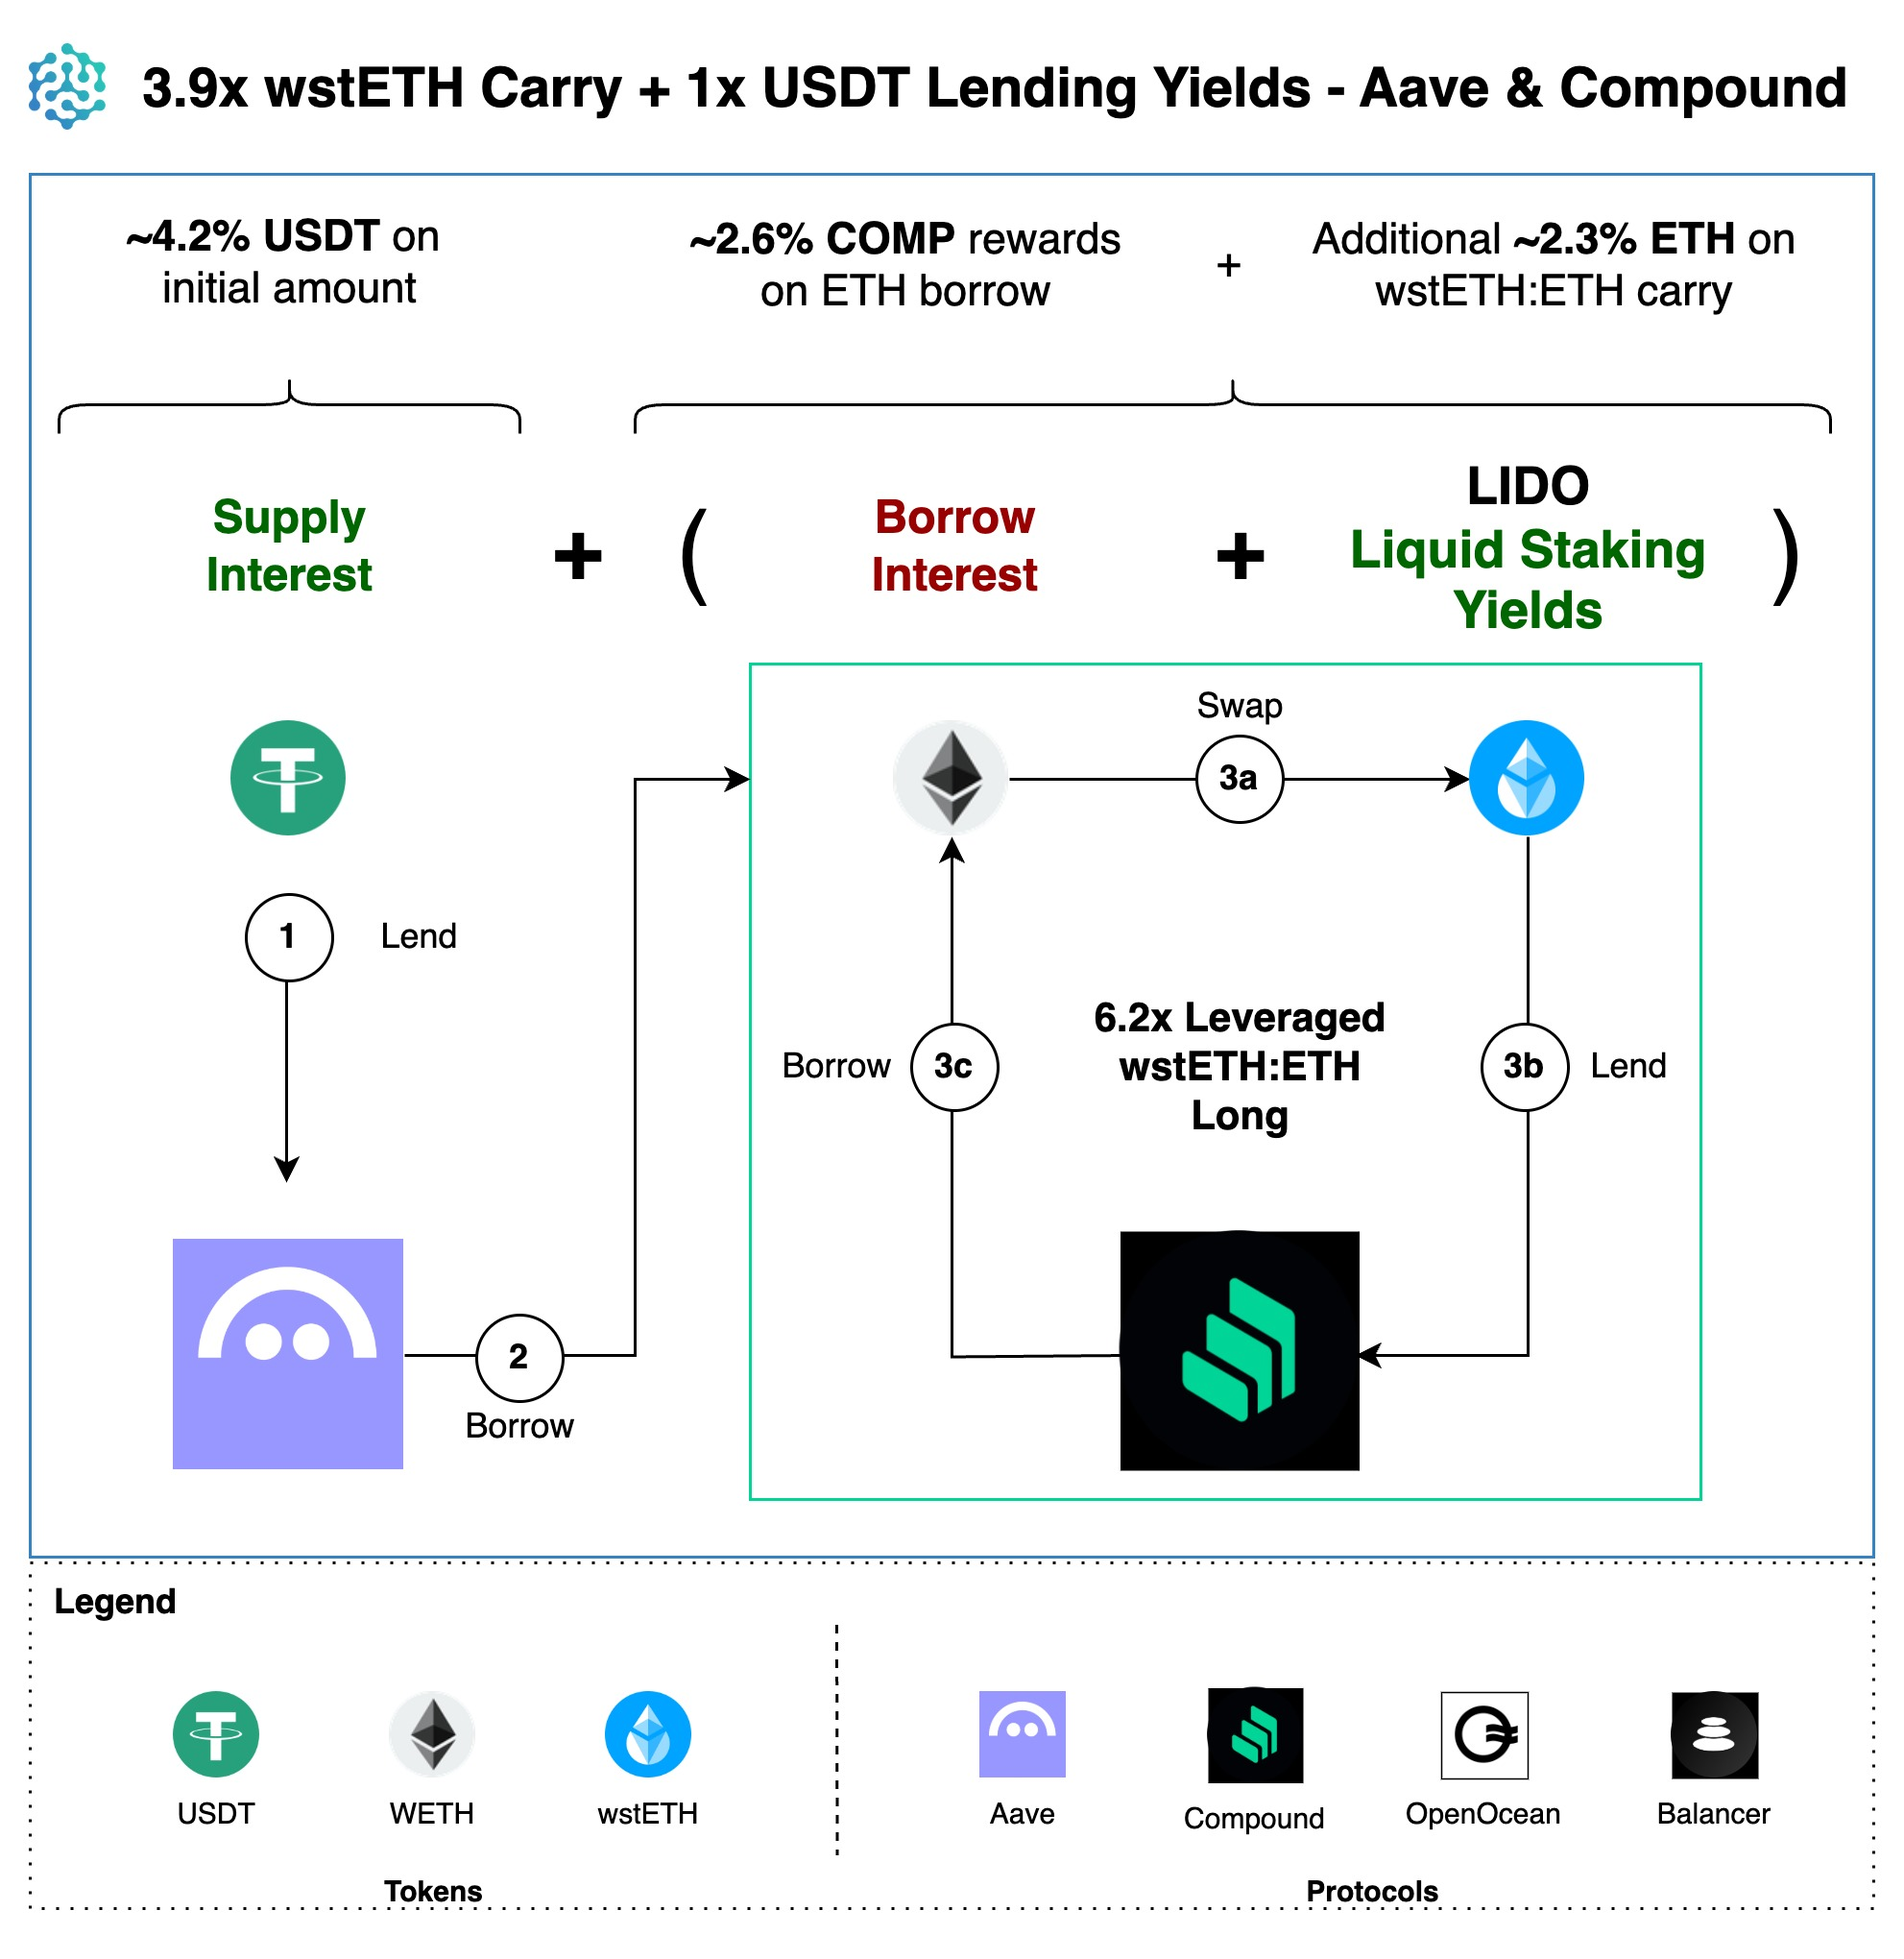
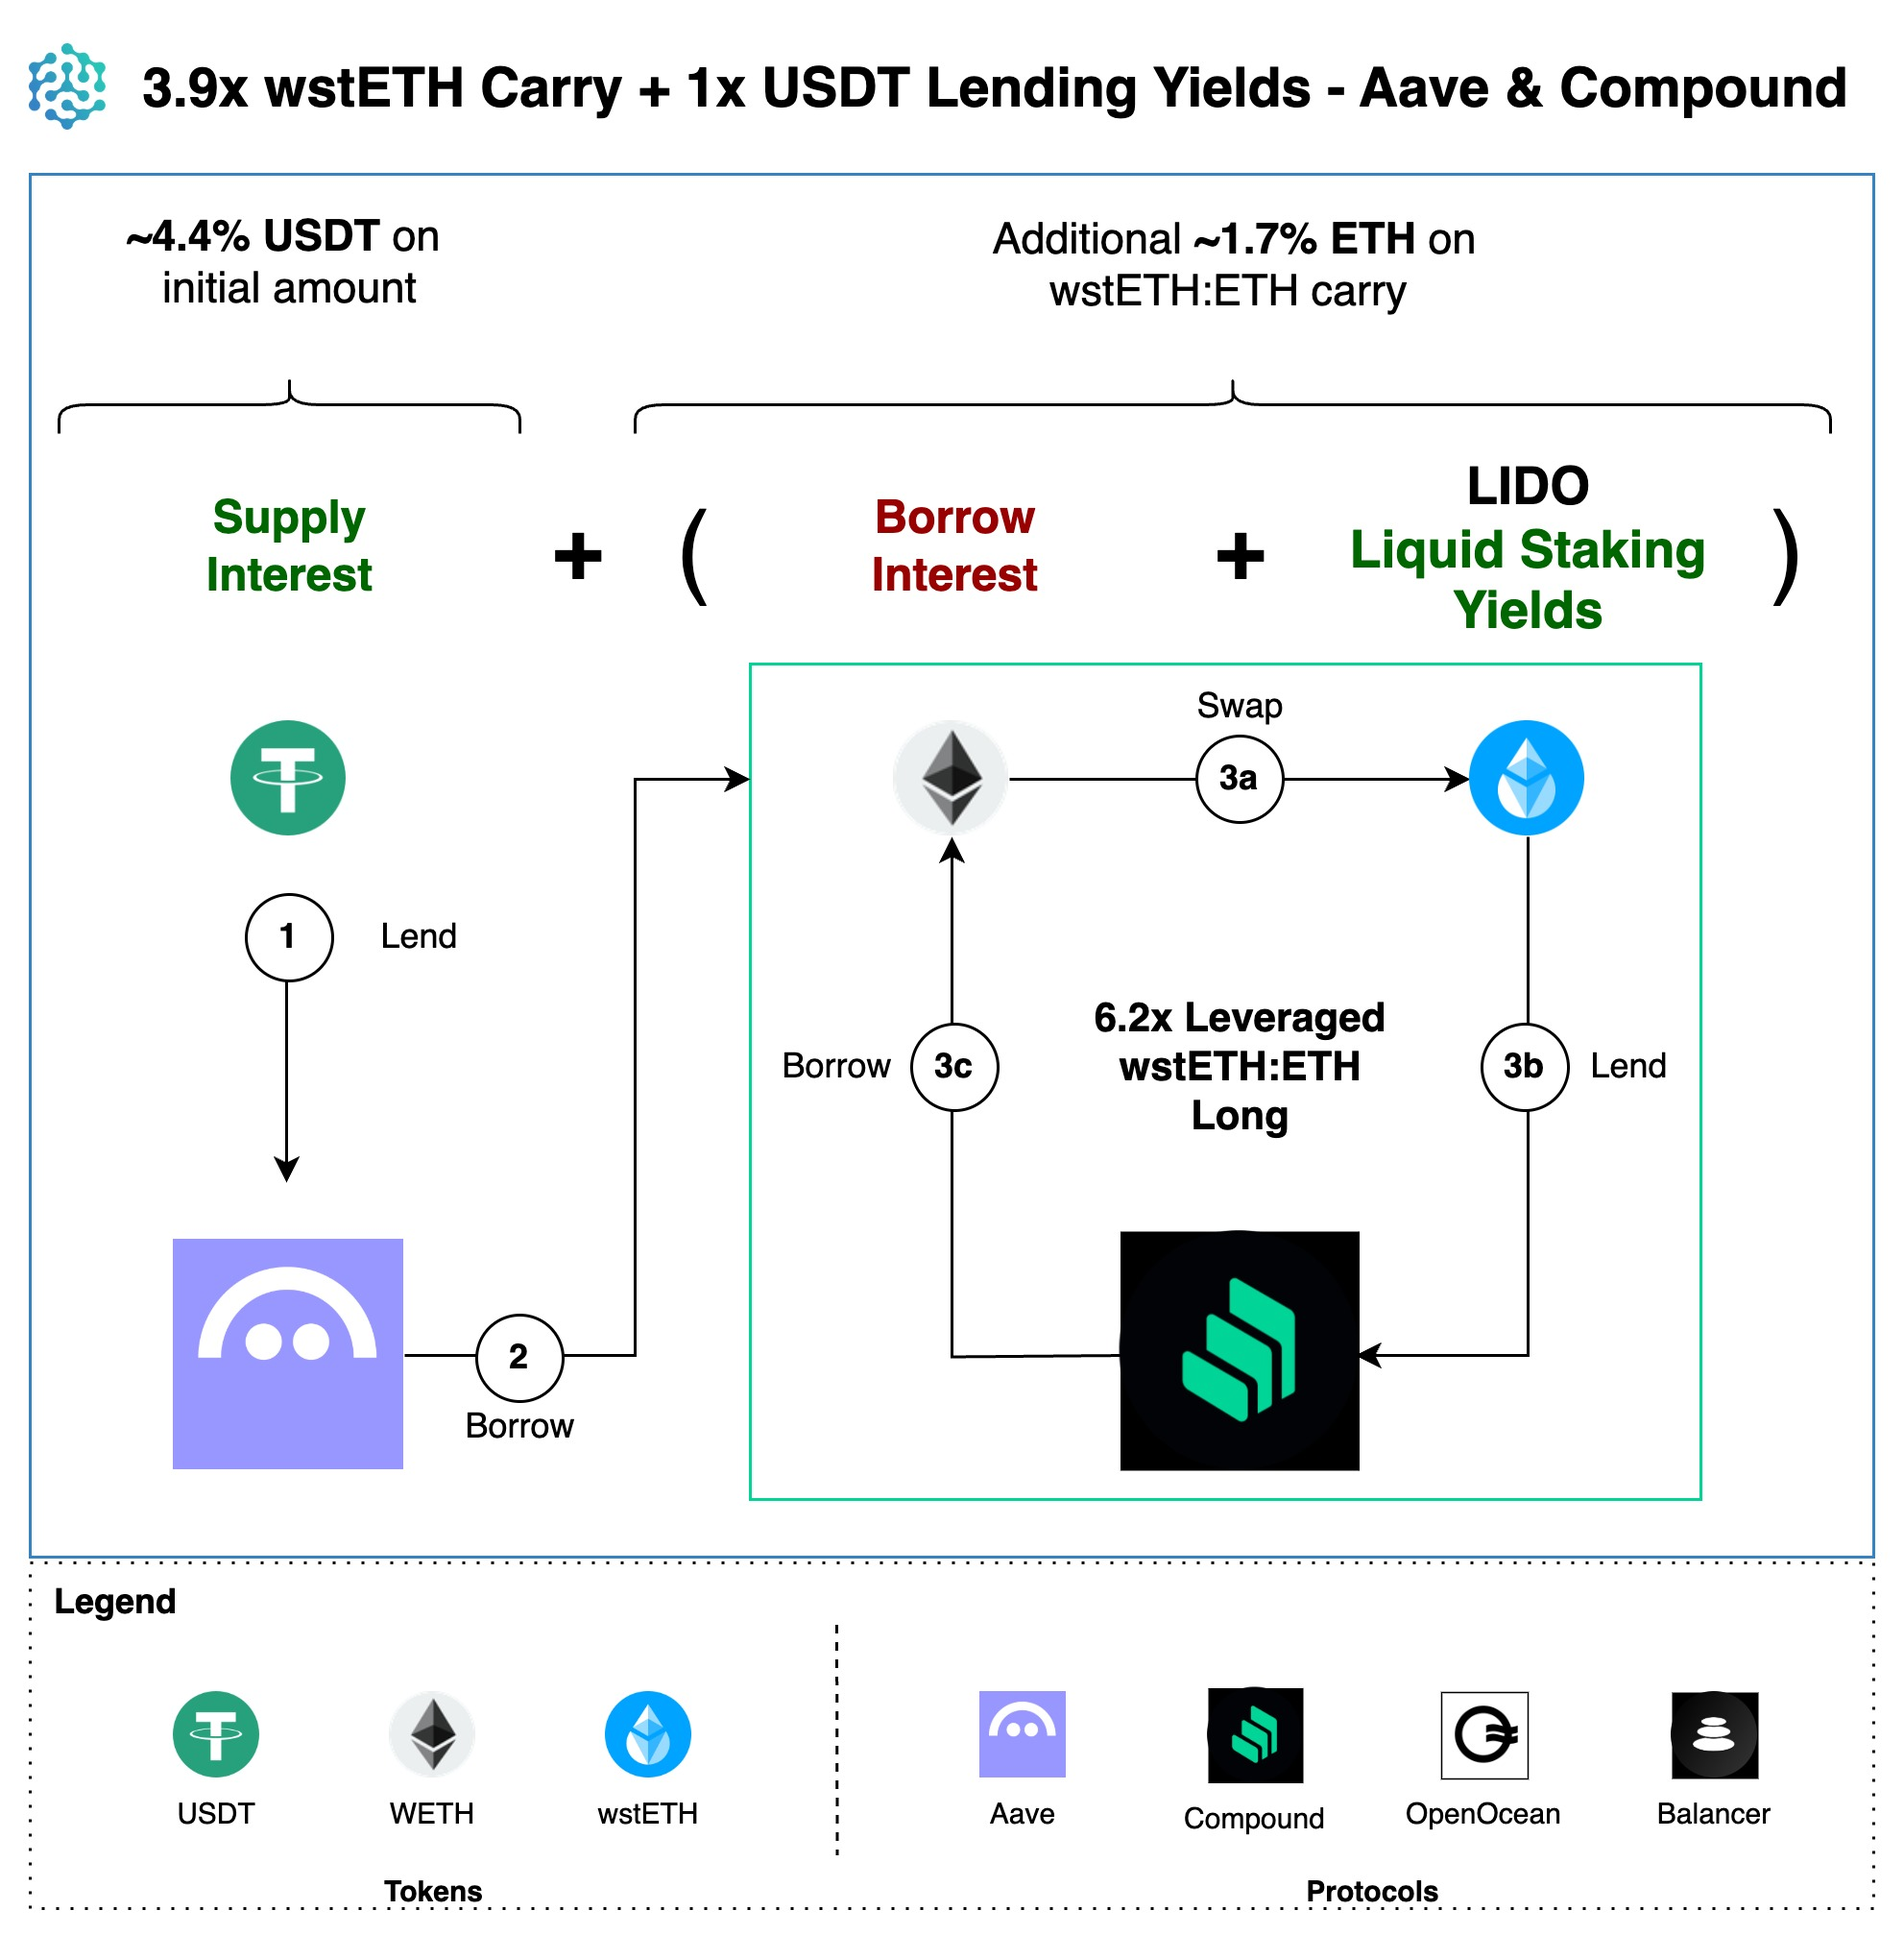
GITBOOK-498: Update Graphics

Changed region(s): [[0.3691, 0.0926, 0.9228, 0.1544]]

diff --git a/factor-discover/factor-operated-strategies/yield-type-strategies/arbitrum-chainid-42161/3.9x-wsteth-carry-+-1x-usdt-lending-yields-aave-and-compound.md b/factor-discover/factor-operated-strategies/yield-type-strategies/arbitrum-chainid-42161/3.9x-wsteth-carry-+-1x-usdt-lending-yields-aave-and-compound.md
@@ -14,7 +14,7 @@ Visit Studio to copy/fork and tweak this strategy!
 
 ## Description
 
-<figure><img src="../../../../.gitbook/assets/3.9x wstETH Carry + 1x USDT Lending Yields - Aave &#x26; Compound (1).jpg" alt=""><figcaption></figcaption></figure>
+<figure><img src="../../../../.gitbook/assets/3.9x wstETH Carry + 1x USDT Lending Yields - Aave &#x26; Compound.jpg" alt=""><figcaption></figcaption></figure>
 
 This strategy earns blended USDT and ETH yields by taking advantage of differences in Aave and Compound.
 
